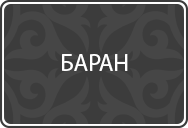
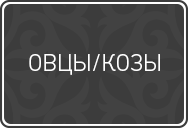
maxlength 70

Changed region(s): [[0.133, 0.4062, 0.8511, 0.5938]]

diff --git a/app/views/ad/edit/_form.scala.html b/app/views/ad/edit/_form.scala.html
@@ -128,7 +128,7 @@
 <div class="form-group">
   <label class="col-xs-2  textalign" for="textinput">Заголовок</label>  
   <div class="col-xs-6">
-  <input id="textinput" name="title" type="text" placeholder="" class="form-control input-md ssss" value="@ad.title" validation="not_null">
+  <input id="textinput" name="title" type="text" placeholder="" maxlength="70" class="form-control input-md ssss" value="@ad.title" validation="not_null">
   <span class="help-block">Максимальная длина 70 символов.</span>  
   </div>
 </div>
@@ -242,14 +242,23 @@
 </div>
 
     <div class="form-group">
-
-        <a map="yandex" class="mapSelect">Яндекс</a>
-        <a map="google" class="mapSelect">Google</a>
-
+  <label class="col-xs-2 textalign" for="selectbasic4"></label>
+  <div class="col-xs-5" style="position: absolute;padding-left: 150px;padding-top: 32px;">
+    <span>Укажите ваше расположение на карте</span>
+    <a href="technovision" class="kizilast" style="cursor: pointer;">Удалить метку</a>
+  </div>
+</div>
+<!-- BHHJAUSHASHFAS -->
+<div class="form-group" style="z-index:0;">
+  <div class="col-xs-5" >
+        <span class="input-group-btn">
+          <a map="yandex" class="mapSelect btn btn-default btn-sm "><b>Яндекс</b></a>
+          <a map="google" class="mapSelect btn btn-default btn-sm active"><b>Google</b></a>
+        </span>
         <div id="mouse_event_map"></div>
         <input type="hidden" value="" id="location" name="location">
-
-    </div>
+  </div>
+</div>
 
 <!-- Button -->
 

diff --git a/app/views/profile/info/edit/_edit.scala.html b/app/views/profile/info/edit/_edit.scala.html
@@ -168,15 +168,14 @@
 			</div>
 <!-- BTSHDJHFJ -->
 <div class="form-group">
-  <div class="col-xs-5" style="position: absolute;padding-left: 293px;padding-top: 23px;">
+  <div class="col-xs-5" style="width: 100%;position: absolute;padding-left: 278px;padding-top: 22px;">
     <span>Укажите ваше расположение на карте</span>
-    <a href="technovision" class="kizilast" style="cursor: pointer">Удалить метку</a>
+    <a href="technovision" class="kizilast" style="cursor: pointer;">Удалить метку</a>
   </div>
 </div>
 <!-- BTSHDJHFJ -->
 			<div class="form-group">
-
-					<div class="col-xs-5" style="margin-left: 137px;">
+				<div class="col-xs-5" style="margin-left: 130px;">
         			<span class="input-group-btn">
         			<a map="yandex" class="mapSelect btn btn-default btn-sm "><b>Яндекс</b></a>
         			<a map="google" class="mapSelect btn btn-default btn-sm active"><b>Google</b></a>

diff --git a/app/views/ad/create/_form.scala.html b/app/views/ad/create/_form.scala.html
@@ -122,7 +122,7 @@
 <div class="form-group" data-toggle="tooltip" data-placement="right" title="Заголовок должен отражать суть объявления и быть уникален.">
   <label class="col-xs-2 textalign" for="textinput">Заголовок</label>
   <div class="col-xs-6">
-  <input id="textinput" name="title" type="text" placeholder="" class="form-control input-md next ssss" validation="not_null">
+  <input id="textinput" name="title" type="text" placeholder="" maxlength="70" class="form-control input-md next ssss" validation="not_null">
   <span class="help-block">Максимальная длина 70 символов.</span>
   </div>
 </div>

diff --git a/app/views/_navbar.scala.html b/app/views/_navbar.scala.html
@@ -24,7 +24,7 @@
 			<li data-value="ЛОШАДЬ"><a href="@routes.Ads.horse" class="PFBSPR-14">ЛОШАДЬ </a></li>
 			<li data-value="ВЕРБЛЮД"><a href="@routes.Ads.camel" class="PFBSPR-14" >ВЕРБЛЮД </a></li>
 			<li data-value="КОРОВА"><a href="@routes.Ads.cow" class="PFBSPR-14">КОРОВА </a></li>
-			<li data-value="БАРАН"><a href="@routes.Ads.cam" class="PFBSPR-14">БАРАН </a></li>
+			<li data-value="БАРАН"><a href="@routes.Ads.cam" class="PFBSPR-14">ОВЦЫ/КОЗЫ </a></li>
 			<li data-value="ДРУГИЕ"><a href="@routes.Ads.other" class="PFBSPR-14">ДРУГИЕ </a></li>
           </ul>
         </li>
